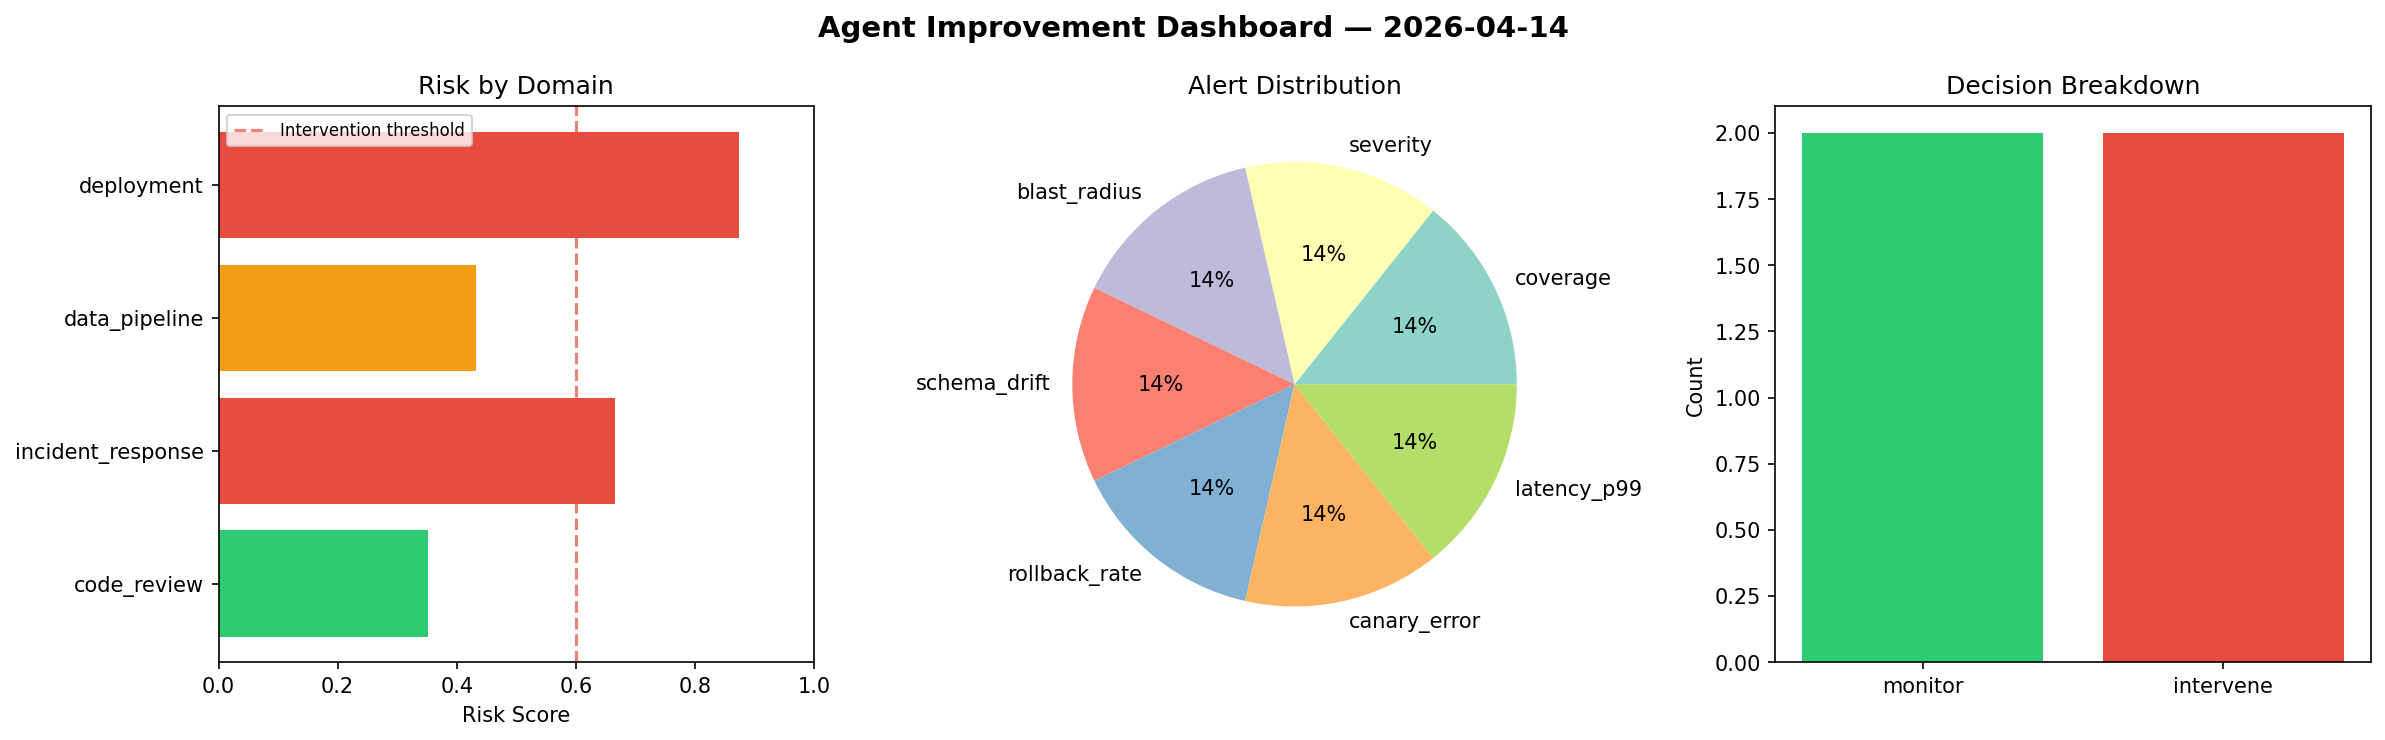
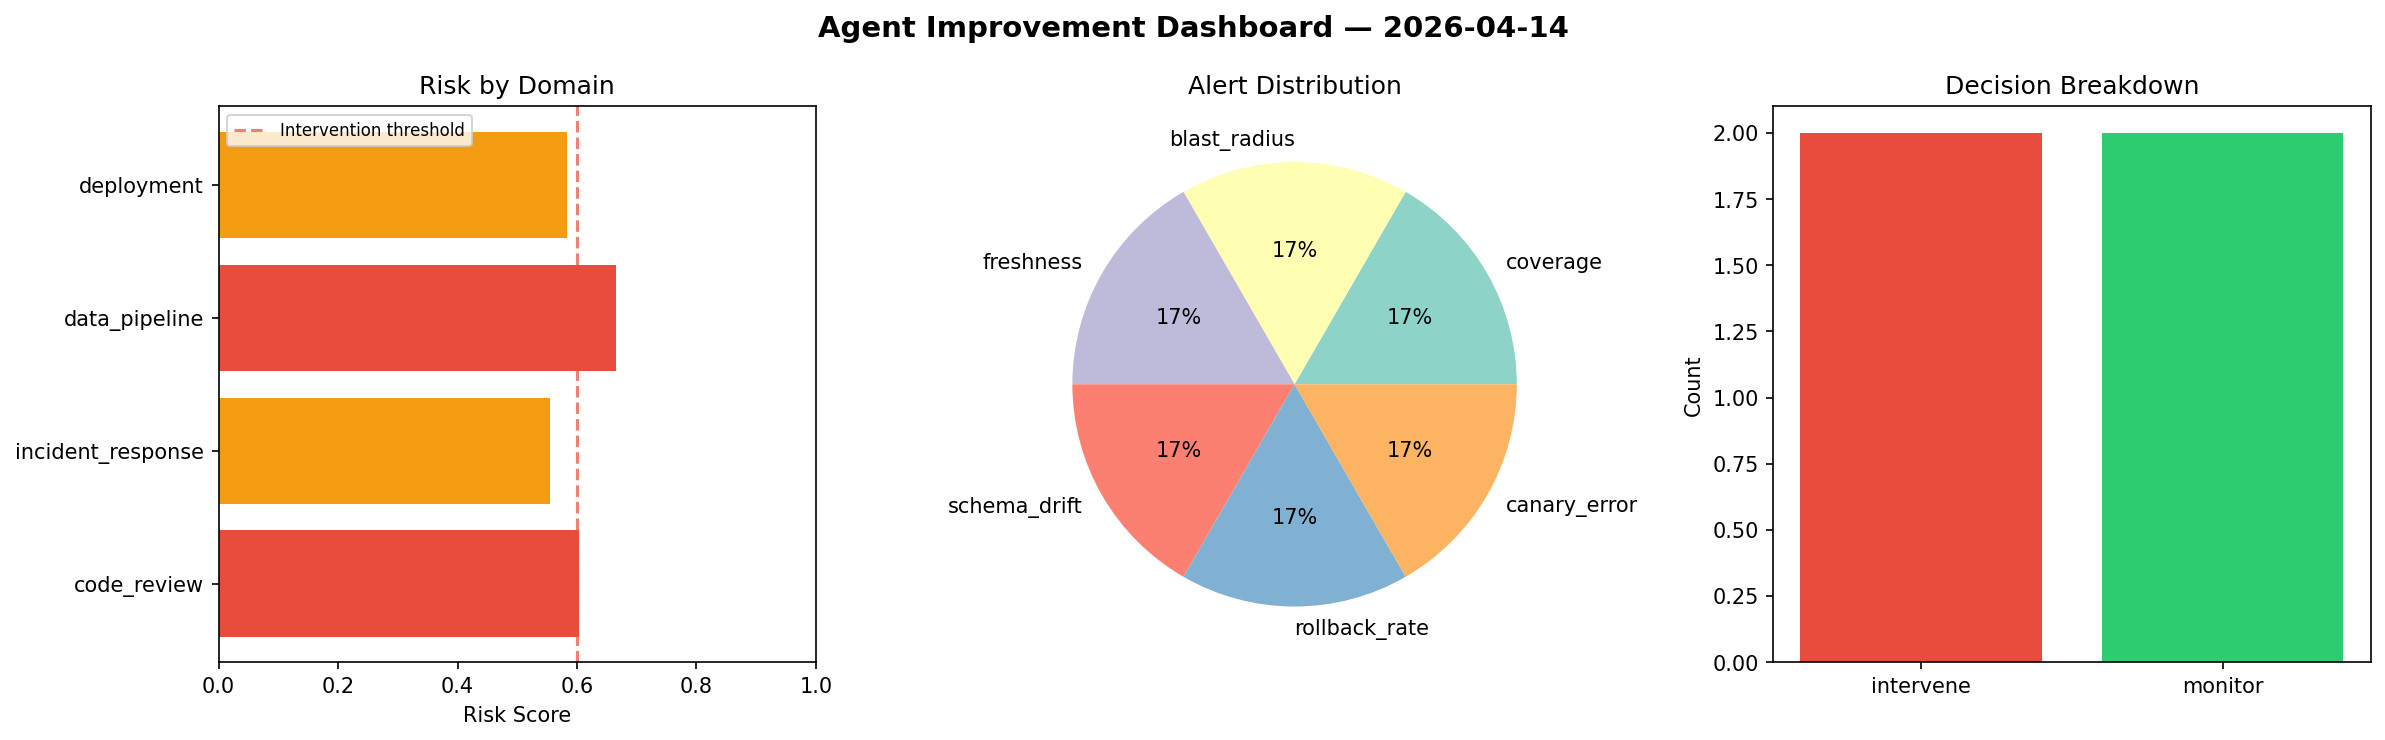
agent-improvement: daily cycle 2026-04-14T09:50

diff --git a/logs/2026-04-14.md b/logs/2026-04-14.md
@@ -1,6 +1,6 @@
 # Agent Improvement Report — 2026-04-14
 
-**Cycle ID:** `045251fc` | **Avg Risk:** 0.5814 | **Interventions:** 2/4
+**Cycle ID:** `c0536b73` | **Avg Risk:** 0.6019 | **Interventions:** 2/4
 
 ![Dashboard](2026-04-14_dashboard.png)
 
@@ -10,18 +10,18 @@
 
 | Domain | Risk Score | Decision | Alerts |
 |--------|-----------|----------|--------|
-| code_review | 0.352 | monitor | coverage |
-| incident_response | 0.6662 | intervene | severity, blast_radius |
-| data_pipeline | 0.4326 | monitor | schema_drift |
-| deployment | 0.8748 | intervene | rollback_rate, canary_error, latency_p99 |
+| code_review | 0.603 | intervene | coverage |
+| incident_response | 0.5555 | monitor | blast_radius |
+| data_pipeline | 0.6656 | intervene | freshness, schema_drift |
+| deployment | 0.5837 | monitor | rollback_rate, canary_error |
 
 ## Delta vs Yesterday
 
 | Domain | Today | Yesterday | Change |
 |--------|-------|-----------|--------|
-| code_review | 0.352 | 0.7675 | 📉 -54.1% |
-| incident_response | 0.6662 | 0.2677 | 📈 148.9% |
-| data_pipeline | 0.4326 | 0.6418 | 📉 -32.6% |
-| deployment | 0.8748 | 0.5605 | 📈 56.1% |
+| code_review | 0.603 | 0.7675 | 📉 -21.4% |
+| incident_response | 0.5555 | 0.2677 | 📈 107.5% |
+| data_pipeline | 0.6656 | 0.6418 | 📈 3.7% |
+| deployment | 0.5837 | 0.5605 | 📈 4.1% |
 
-**Refinement:** `{'adjustment': 'tighten_thresholds', 'trend': 'degrading', 'window': 4}`
+**Refinement:** `{'adjustment': 'maintain', 'trend': 'improving', 'window': 4}`
